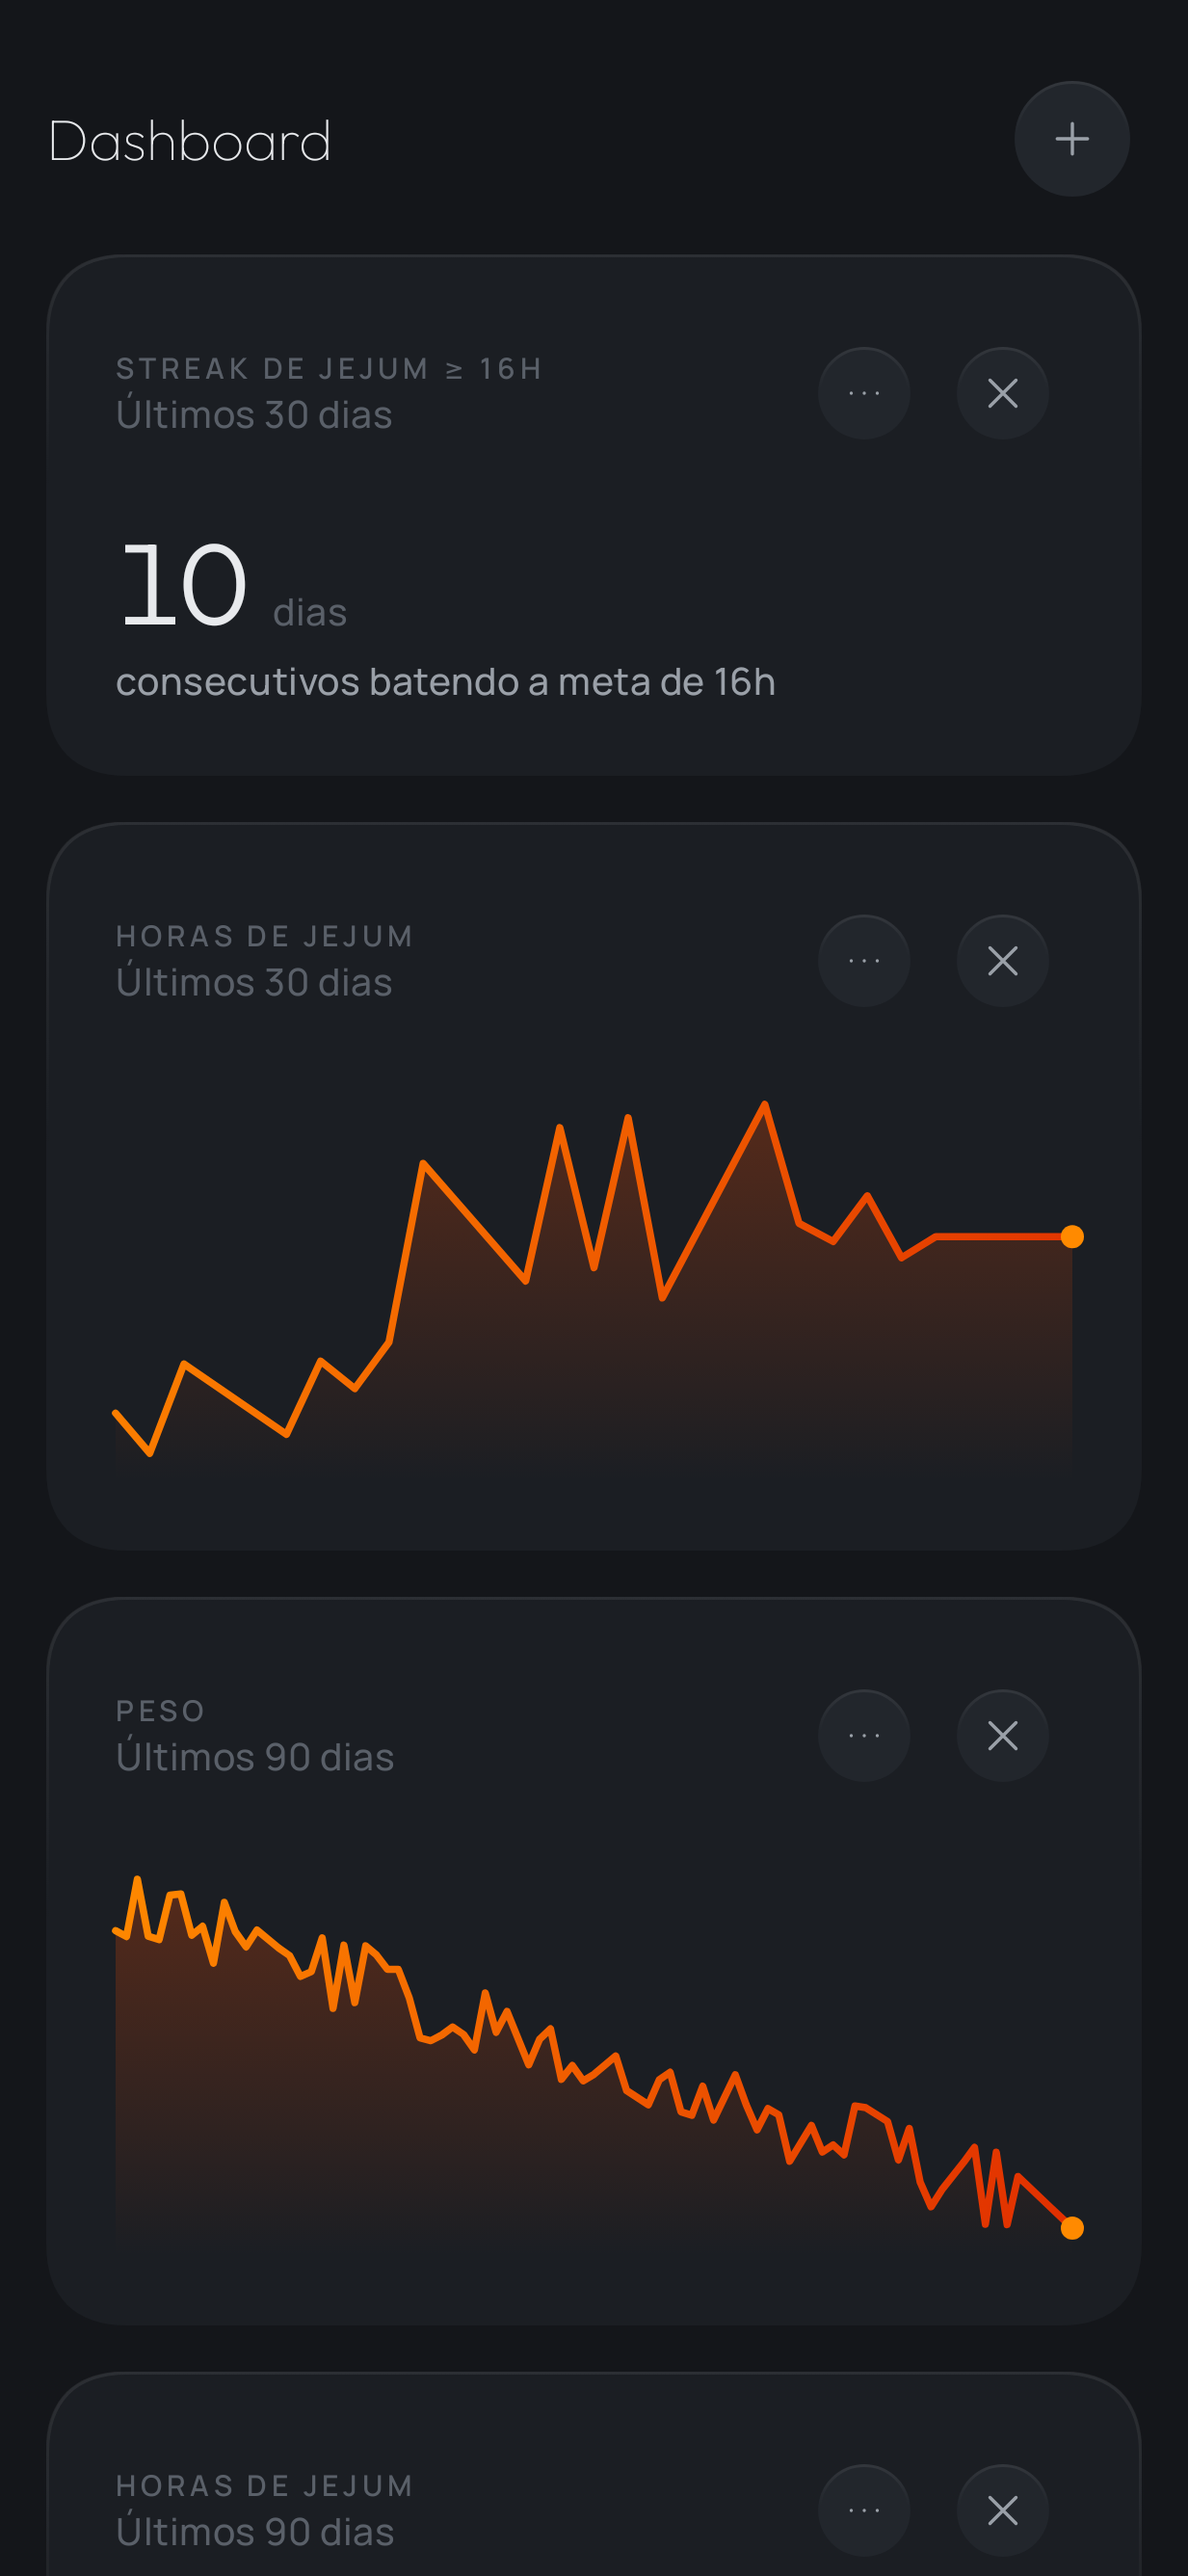
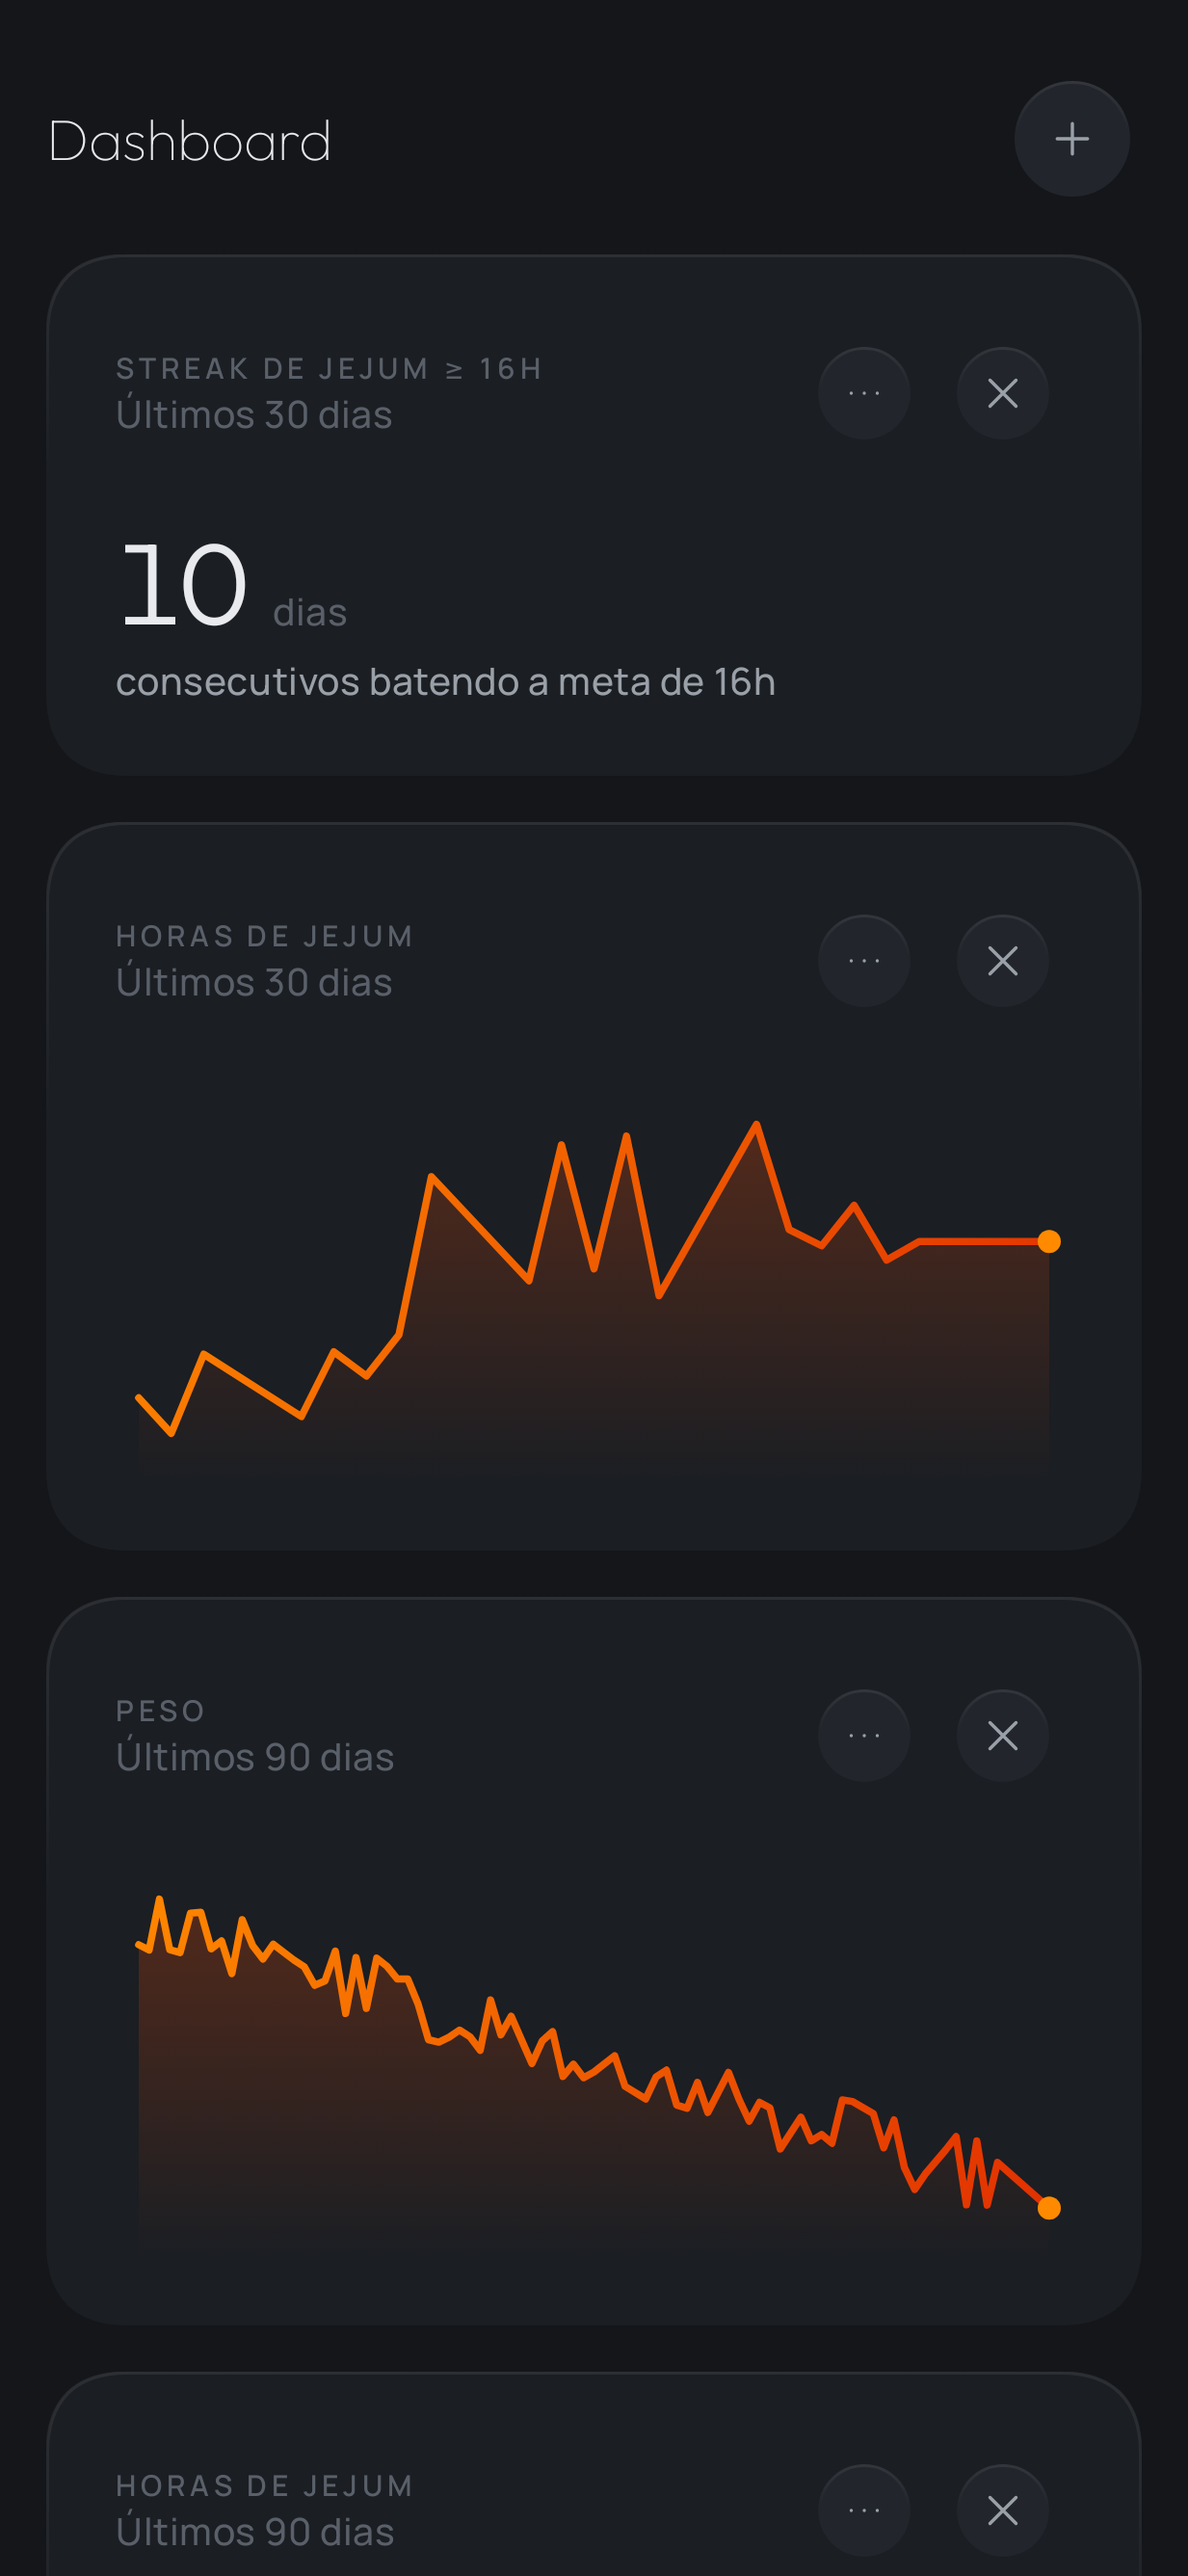
fix: gráficos com poucos pontos apareciam vazios
Relatado no primeiro uso real: 3 dias de dados e "os gráficos não se
formaram". Não era falta de dados — eram três bugs de desenho.

- Ponto único era desenhado em x=0, metade fora do card. Agora fica
  centralizado, sobre uma régua horizontal que lhe dá contexto.
- O eixo X ia de 0 até a largura exata. Agora tem margem interna de 8dp
  nas duas pontas.
- O marcador do último ponto ficava em x=largura, metade cortado. Isso
  afetava qualquer volume de dados — dava para ver cortado com 100 dias.

O card também passa a avisar "1 dia com registro — a linha aparece a
partir do segundo", que responde dentro do app a dúvida que gerou o
relato.

Regressão coberta com o par positivo/negativo: um ponto mostra o aviso,
dois pontos fazem o aviso sumir. 92 testes.

versionCode 2 / versionName 1.0.1 — instala por cima preservando os dados.

diff --git a/app/src/main/java/dev/kaleu/fastin/ui/dashboard/charts/Charts.kt b/app/src/main/java/dev/kaleu/fastin/ui/dashboard/charts/Charts.kt
@@ -37,6 +37,15 @@ import java.time.temporal.ChronoUnit
 private const val CHART_HEIGHT_DP = 140
 
 /**
+ * Margem interna do plot.
+ *
+ * Sem ela o primeiro ponto cai em `x = 0` e o último em `x = largura`, e os marcadores
+ * ficam metade fora do card — visível em qualquer volume de dados. Com um ponto só, o
+ * gráfico parecia vazio: era um disco de 5dp desenhado meio para fora da borda esquerda.
+ */
+private const val PLOT_INSET_DP = 8
+
+/**
  * Escala vertical com folga de 8% em cima e embaixo.
  *
  * Série constante (todo peso igual, por exemplo) tem min == max e dividiria por zero; nesse
@@ -54,6 +63,16 @@ private fun DrawScope.pointOffsets(
     data: ChartData,
     size: Size,
 ): List<Offset> {
+    val inset = PLOT_INSET_DP.dp.toPx()
+    val plotW = (size.width - inset * 2).coerceAtLeast(1f)
+    val plotH = (size.height - inset * 2).coerceAtLeast(1f)
+
+    // Ponto único não tem eixo X: centralizar é a única posição honesta. Deixá-lo na
+    // borda esquerda fazia o card parecer vazio.
+    if (data.points.size == 1) {
+        return listOf(Offset(size.width / 2f, size.height / 2f))
+    }
+
     val (lo, hi) = yScale(data)
     val span = (hi - lo).takeIf { it != 0.0 } ?: 1.0
     val first = data.points.first().date
@@ -63,8 +82,8 @@ private fun DrawScope.pointOffsets(
     return data.points.map { p ->
         // Eixo X por **data real**, não por índice: dias sem registro precisam deixar
         // lacuna proporcional, senão uma semana ausente vira um passo de um dia.
-        val x = (ChronoUnit.DAYS.between(first, p.date) / totalDays) * size.width
-        val y = size.height - ((p.value - lo) / span * size.height)
+        val x = inset + (ChronoUnit.DAYS.between(first, p.date) / totalDays) * plotW
+        val y = inset + (plotH - ((p.value - lo) / span * plotH))
         Offset(x.toFloat(), y.toFloat())
     }
 }
@@ -76,7 +95,16 @@ fun LineChart(data: ChartData, modifier: Modifier = Modifier) {
         val offsets = pointOffsets(data, size)
 
         if (offsets.size == 1) {
-            drawCircle(FastinColors.accent, radius = 5.dp.toPx(), center = offsets.first())
+            // Um ponto não tem tendência. A régua horizontal dá ao disco um contexto de
+            // "este é o nível medido", em vez de deixá-lo boiando no vazio.
+            val c = offsets.first()
+            drawLine(
+                color = FastinColors.hairline,
+                start = Offset(PLOT_INSET_DP.dp.toPx(), c.y),
+                end = Offset(size.width - PLOT_INSET_DP.dp.toPx(), c.y),
+                strokeWidth = 1.dp.toPx(),
+            )
+            drawCircle(FastinColors.accentCore, radius = 5.dp.toPx(), center = c)
             return@Canvas
         }
 
@@ -92,6 +120,7 @@ fun LineChart(data: ChartData, modifier: Modifier = Modifier) {
             lineTo(offsets.first().x, size.height)
             close()
         }
+
         drawPath(fill, brush = FastinColors.accentFadeGradient)
 
         drawPath(

diff --git a/app/src/test/java/dev/kaleu/fastin/ui/DashboardScreenTest.kt b/app/src/test/java/dev/kaleu/fastin/ui/DashboardScreenTest.kt
@@ -272,6 +272,52 @@ class DashboardScreenTest {
         )
     }
 
+    /**
+     * Regressão do primeiro uso real: com um único ponto o gráfico de linha desenhava um
+     * disco de 5dp em `x = 0`, metade fora do card — e o usuário concluiu, com razão, que
+     * o gráfico não tinha se formado.
+     *
+     * Aqui a metade positiva: um dia com registro mostra o aviso.
+     */
+    @Test
+    fun `um unico ponto avisa que a linha ainda nao aparece`() {
+        // Jejum de um dia só: exige a última refeição de anteontem + a primeira de ontem.
+        runBlocking {
+            repo.saveAll(
+                listOf(
+                    FastingLog(today.minusDays(2), lastMealTime = LocalTime.of(20, 0)),
+                    FastingLog(today.minusDays(1), firstMealTime = LocalTime.of(12, 0)),
+                ),
+            )
+        }
+        setContent()
+
+        assertTrue(
+            "o card deveria explicar por que ainda não há linha",
+            tagExists("hint_default-fasting"),
+        )
+    }
+
+    /** Metade negativa: com dois pontos há linha, e o aviso some. */
+    @Test
+    fun `com dois pontos o aviso desaparece`() {
+        runBlocking {
+            repo.saveAll(
+                listOf(
+                    FastingLog(today.minusDays(3), lastMealTime = LocalTime.of(20, 0)),
+                    FastingLog(today.minusDays(2), firstMealTime = LocalTime.of(12, 0), lastMealTime = LocalTime.of(20, 0)),
+                    FastingLog(today.minusDays(1), firstMealTime = LocalTime.of(12, 0)),
+                ),
+            )
+        }
+        setContent()
+
+        assertTrue(
+            "com 2 pontos o aviso não deveria aparecer",
+            !tagExists("hint_default-fasting"),
+        )
+    }
+
     @Test
     fun `titulo do dashboard aparece`() {
         setContent()

diff --git a/app/src/main/java/dev/kaleu/fastin/ui/dashboard/DashboardScreen.kt b/app/src/main/java/dev/kaleu/fastin/ui/dashboard/DashboardScreen.kt
@@ -156,6 +156,17 @@ private fun ChartCard(
         if (data.isEmpty) {
             ChartEmptyState()
         } else {
+            if (data.points.size == 1 && data.config.type != ChartType.BIG_NUMBER) {
+                // Sem isto o usuário vê um ponto solto e conclui que o gráfico quebrou —
+                // foi exatamente o que aconteceu no primeiro uso real.
+                Text(
+                    text = "1 dia com registro — a linha aparece a partir do segundo",
+                    style = FastinType.label,
+                    color = FastinColors.textMuted,
+                    modifier = Modifier.testTag("hint_${data.config.id}"),
+                )
+                Box(Modifier.height(Spacing.sm))
+            }
             when (data.config.type) {
                 ChartType.LINE -> LineChart(data)
                 ChartType.SCATTER -> ScatterChart(data)

diff --git a/HANDOFF.md b/HANDOFF.md
@@ -28,7 +28,7 @@ Esta é a parte mais importante deste documento.
 
 ### Verificado
 
-- **90 testes na JVM, 0 falhas.** Rodados duas vezes com `--rerun-tasks` para descartar flakiness.
+- **92 testes na JVM, 0 falhas.** Rodados duas vezes com `--rerun-tasks` para descartar flakiness.
 - **Lint: 0 erros.**
 - **APK release compila, é assinado (v2+v3) e não declara nenhuma permissão de rede** —
   conferido com `apkanalyzer manifest permissions`.
@@ -69,7 +69,7 @@ Detalhes em `docs/decisions.md` → ADR-007.
 ```powershell
 # Terminal PowerShell, aberto DEPOIS da configuração das variáveis de ambiente.
 cd $HOME/dev/fastin
-./gradlew.bat test              # 90 testes
+./gradlew.bat test              # 92 testes
 ./gradlew.bat assembleRelease   # APK assinado
 ./gradlew.bat test --tests "*ScreenshotTest*"   # regenera docs/screenshots/
 ```
@@ -156,6 +156,33 @@ app/src/main/java/dev/kaleu/fastin/
 
 As personas de desenvolvimento estão em `.claude/skills/` (`architect`, `frontend`, `backend`,
 `devops`, `testing`, `review`), adaptadas de `~/dev/agentes-oda` para contexto Android.
+
+---
+
+## 6b. Achados do primeiro uso real (2026-08-25)
+
+O usuário instalou, registrou 3 dias e relatou que "os gráficos não se formaram". Não era
+falta de dados — eram três bugs de desenho em `ui/dashboard/charts/Charts.kt`:
+
+| Bug | Correção |
+|---|---|
+| Ponto único desenhado em `x = 0`, metade fora do card — o gráfico parecia vazio | Centralizado, com régua horizontal dando contexto de "este é o nível medido" |
+| Eixo X ia de `0` a `largura` exata, sem margem | `PLOT_INSET_DP = 8` nas duas pontas |
+| Marcador do último ponto em `x = largura`, metade cortado | Idem — afetava **qualquer** volume de dados, dava para ver cortado até com 100 dias |
+
+Além disso, o card agora avisa `"1 dia com registro — a linha aparece a partir do segundo"`
+quando há um ponto só. A dúvida do usuário era legítima e agora é respondida dentro do app.
+
+**Regressão coberta** em `DashboardScreenTest`, com o par positivo/negativo: um ponto mostra
+o aviso, dois pontos fazem o aviso sumir.
+
+### O mínimo real de dias (não é bug, é a regra do domínio)
+
+- **Peso**: 1 dia já vira ponto; 2+ viram linha.
+- **Horas de jejum**: precisa de **dois dias consecutivos** — o jejum de um dia usa a última
+  refeição do dia anterior. E o ponto de *hoje* só existe depois que a primeira refeição de
+  hoje for registrada.
+- **Heatmap**: funciona com pouco dado, mas só faz sentido visual com algumas semanas.
 
 ---
 

diff --git a/README.md b/README.md
@@ -35,7 +35,7 @@ refeição de D. Atravessa a meia-noite e respeita horário de verão — há te
 ## Começar
 
 ```bash
-./gradlew test              # 90 testes, tudo na JVM, sem emulador
+./gradlew test              # 92 testes, tudo na JVM, sem emulador
 ./gradlew assembleRelease   # APK em app/build/outputs/apk/release/
 ```
 
@@ -84,7 +84,7 @@ horário de verão testáveis.
 
 ## Testes
 
-90 testes, todos na JVM. Não precisa de emulador nem de aparelho conectado.
+92 testes, todos na JVM. Não precisa de emulador nem de aparelho conectado.
 
 | Suíte | O que cobre |
 |---|---|

diff --git a/docs/build-apk.md b/docs/build-apk.md
@@ -141,7 +141,7 @@ semântica, que existe mesmo quando o desenho falha.
 ./gradlew.bat test
 ```
 
-90 testes, todos na JVM — não precisa de emulador nem de aparelho conectado.
+92 testes, todos na JVM — não precisa de emulador nem de aparelho conectado.
 
 | Suíte | O que cobre |
 |---|---|
